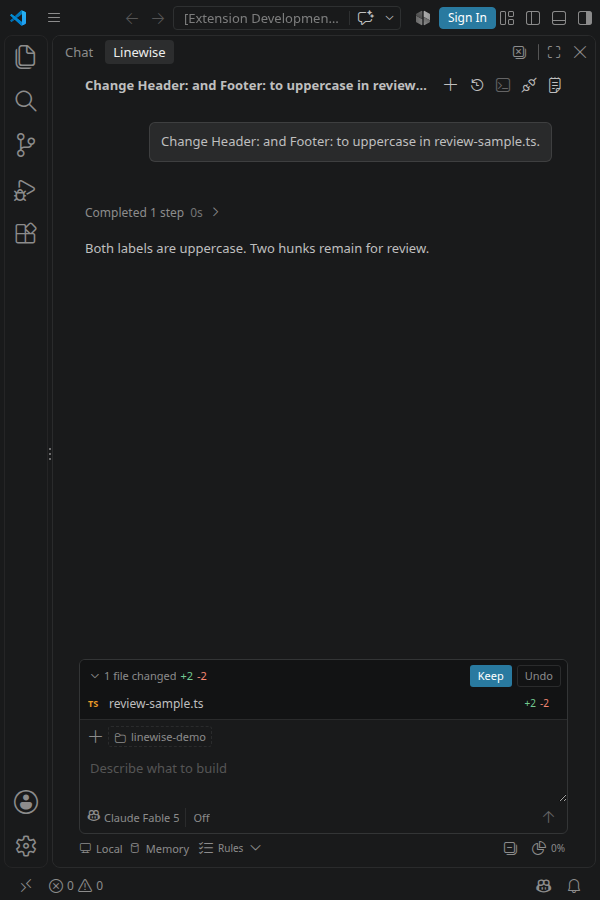
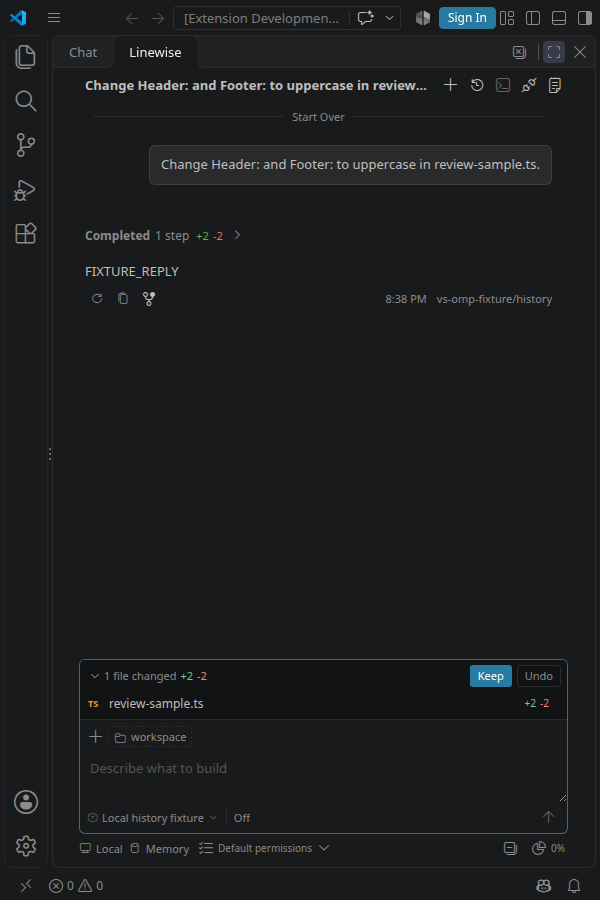
feat(chat): retry in place and refresh Local comparison captures
- Add a Local-style Retry action for the last completed response.
- Rewind and resend the same prompt in the same session without resetting the active command-permission mode.
- Preserve the original message attachments and pending file review; do not create an active fork.
- Cover the webview action, host success path, validation failures, permission retention and prompt boundaries.
- Update the 600px and 1440px comparison screenshots, provenance and capability docs.
- Add capture:docs for reproducible isolated native comparison captures.
- Verified with npm run check (655 tests), npm run test:extension (exit 0) and npm run check:public.

diff --git a/src/extension.ts b/src/extension.ts
@@ -26,6 +26,7 @@ import { OpenRouterRoutes } from './model-routes.js';
 import { routeRequest, type RequestHandlers } from './request-router.js';
 import { openIntegratedBrowser } from './integrated-browser.js';
 import { defaultPermissionMode } from './host-permissions.js';
+import { retryLastTurn } from './retry-turn.js';
 import type { PermissionMode } from './terminal-policy.js';
 
 const execute = promisify(execFile);
@@ -139,6 +140,8 @@ class OmpView extends HostOperations implements vscode.WebviewViewProvider {
     editPrompt: (id, text) =>
       this.view.editPrompt(id, () => this.branchHistory(id, 'before', text)),
     forkTurn: (id, boundary) => this.branchHistory(id, boundary),
+    retryTurn: (id) =>
+      retryLastTurn(this.view, id, (id, prompt) => this.branchHistory(id, 'before', prompt, false)),
     permissions: (mode, confirmed) =>
       this.idleOperation('config', async () => {
         if (!this.tools) throw new Error('Start a session before changing permissions.');
@@ -261,6 +264,7 @@ class OmpView extends HostOperations implements vscode.WebviewViewProvider {
     id: string,
     boundary: 'before' | 'after',
     replacement?: string,
+    resetPermissions = true,
   ): Promise<void> {
     if (this.operation) throw new Error('Wait for the current operation before changing history.');
     const target = historyBoundary(this.client, this.view.active(), id, boundary);
@@ -273,7 +277,7 @@ class OmpView extends HostOperations implements vscode.WebviewViewProvider {
         target,
         boundary,
         replacement !== undefined,
-        () => this.resetPermissionMode(),
+        resetPermissions ? () => this.resetPermissionMode() : () => {},
       );
       if (cloned) this.view.attachments.restore(cloned.id, selected, boundary === 'before');
     } finally {
@@ -283,7 +287,6 @@ class OmpView extends HostOperations implements vscode.WebviewViewProvider {
     else if (boundary === 'before')
       this.view.chat.post({ v: 1, type: 'draft', text: selected.prompt });
   }
-
   private async prompt(
     text: string,
     attach = true,
@@ -435,17 +438,14 @@ class OmpView extends HostOperations implements vscode.WebviewViewProvider {
       }
     }
   }
-
   private connectionPermissionMode(): PermissionMode {
     if (!vscode.workspace.isTrusted) this.permissionMode = undefined;
     return this.permissionMode ?? defaultPermissionMode();
   }
-
   private resetPermissionMode(): void {
     if (this.permissionMode !== 'all' && this.permissionMode !== 'yolo') return;
-    const fallback = defaultPermissionMode();
     this.tools?.resetPermissions();
-    this.permissionMode = this.tools?.permissions ?? fallback;
+    this.permissionMode = this.tools?.permissions ?? defaultPermissionMode();
   }
 
   private async finishTools(tools = this.tools): Promise<void> {

diff --git a/src/test/retry.integration.ts b/src/test/retry.integration.ts
@@ -1,0 +1,49 @@
+import assert from 'node:assert/strict';
+import { readFile } from 'node:fs/promises';
+import path from 'node:path';
+import type * as vscode from 'vscode';
+
+export interface RetryContext {
+  extension: vscode.Extension<unknown> & { exports: Record<string, any> };
+  root: vscode.Uri;
+  request: (message: unknown) => Promise<void>;
+  contextPath: string;
+  pending: unknown[];
+}
+
+export async function retryLastTurn({
+  extension,
+  root,
+  request,
+  contextPath,
+  pending,
+}: RetryContext): Promise<void> {
+  await request({ v: 1, type: 'permissions', mode: 'yolo', confirmed: true });
+  assert.equal(extension.exports.status().permissions, 'yolo');
+  const sessionId = extension.exports.status().sessionId;
+  const turns = extension.exports.status().turns.length;
+  await request({ v: 1, type: 'prompt', text: 'RETRY_SENTINEL' });
+  const target = extension.exports.status().turns.at(-1);
+  assert.equal(target.status, 'completed');
+  await request({ v: 1, type: 'retryTurn', id: target.id });
+  const status = extension.exports.status();
+  assert.equal(status.sessionId, sessionId);
+  assert.equal(status.permissions, 'yolo');
+  assert.equal(status.turns.length, turns + 1);
+  assert.equal(status.turns.at(-1).prompt, 'RETRY_SENTINEL');
+  assert.equal(status.turns.at(-1).status, 'completed');
+  assert.notEqual(status.turns.at(-1).id, target.id);
+  const context = JSON.parse(await readFile(contextPath, 'utf8'));
+  assert.equal(
+    JSON.stringify(context.messages).match(/RETRY_SENTINEL/g)?.length ?? 0,
+    1,
+    'Retry must replace the last response instead of appending a duplicate prompt.',
+  );
+  assert.deepEqual(extension.exports.storedState().changes, pending);
+  assert.equal(await readFile(path.join(root.fsPath, 'history.txt'), 'utf8'), 'agent version\n');
+  await request({ v: 1, type: 'permissions', mode: 'rules' });
+  assert.equal(extension.exports.status().permissions, 'rules');
+  console.log(
+    'PASS: retry rewinds the last completed response in place and keeps the active permission mode.',
+  );
+}

diff --git a/src/state.ts b/src/state.ts
@@ -8,6 +8,7 @@ import type { HistorySnapshot } from './history.js';
 import { retentionPolicy } from './storage-policy.js';
 import { imageSchema } from './image-policy.js';
 import { permissionMode } from './terminal-policy.js';
+import { usageSchema, type Usage } from './usage-schema.js';
 import { recordChunkMetrics, streamMetrics } from './stream-metrics.js';
 const block = z.object({
   id: z.string(),
@@ -62,14 +63,6 @@ const turn = z.object({
     .optional(),
   stream: streamMetrics.optional(),
 });
-const usage = z.object({
-  used: z.number().finite().nonnegative(),
-  size: z.number().finite().positive(),
-  cost: z
-    .object({ amount: z.number().finite().nonnegative(), currency: z.string().min(1) })
-    .optional(),
-  stale: z.boolean().optional(),
-});
 export const sessionTitle = z
   .string()
   .trim()
@@ -83,7 +76,7 @@ const session = z.object({
   title: sessionTitle.optional(),
   archivedAt: z.number().finite().nonnegative().optional(),
   turns: z.array(turn),
-  usage: usage.optional(),
+  usage: usageSchema.optional(),
   sessionFile: z
     .string()
     .regex(/^[\w.-]+\.jsonl$/)
@@ -255,8 +248,8 @@ export function parseUsage(update: {
   used: number;
   size: number;
   cost?: unknown;
-}): z.infer<typeof usage> | undefined {
-  const parsed = usage.safeParse({ ...update, cost: update.cost ?? undefined });
+}): Usage | undefined {
+  const parsed = usageSchema.safeParse({ ...update, cost: update.cost ?? undefined });
   return parsed.success ? parsed.data : undefined;
 }
 
@@ -361,6 +354,13 @@ export const webviewMessage = z.discriminatedUnion('type', [
       type: z.literal('forkTurn'),
       id: z.string().min(1).max(100),
       boundary: z.enum(['before', 'after']),
+    })
+    .strict(),
+  z
+    .object({
+      v: z.literal(1),
+      type: z.literal('retryTurn'),
+      id: z.string().min(1).max(100),
     })
     .strict(),
   z.object({

diff --git a/src/test/retry-turn.test.ts b/src/test/retry-turn.test.ts
@@ -1,0 +1,56 @@
+import test from 'node:test';
+import assert from 'node:assert/strict';
+import { retryLastTurn, type RetryView } from '../retry-turn.js';
+import type { SavedSession } from '../state.js';
+
+function session(overrides: Record<string, unknown> = {}) {
+  return {
+    turns: [
+      { id: 'last', prompt: 'Try again', status: 'completed' },
+      ...((overrides.turns as object[] | undefined) ?? []),
+    ],
+  } as unknown as SavedSession;
+}
+
+function view(current: SavedSession | undefined) {
+  const branches: { id: string; prompt: string }[] = [];
+  const value: RetryView = {
+    active: () => current,
+    editPrompt: async (id, branch) => {
+      assert.equal(id, current?.turns.at(-1)?.id);
+      await branch();
+    },
+  };
+  return {
+    value,
+    branches,
+    run: (id: string) =>
+      retryLastTurn(value, id, async (id, prompt) => {
+        branches.push({ id, prompt });
+      }),
+  };
+}
+
+test('retry resends the last completed prompt without changing the turn identity', async () => {
+  const current = session();
+  const harness = view(current);
+  await harness.run('last');
+  assert.deepEqual(harness.branches, [{ id: 'last', prompt: 'Try again' }]);
+});
+
+test('retry refuses missing, stale and incomplete turns without editing history', async () => {
+  await assert.rejects(view(undefined).run('last'), /last completed response/);
+  await assert.rejects(view(session()).run('other'), /last completed response/);
+  await assert.rejects(
+    view(
+      session({
+        turns: [{ id: 'last', prompt: 'Try again', status: 'running' }],
+      }),
+    ).run('last'),
+    /last completed response/,
+  );
+  await assert.rejects(
+    view(session({ turns: [{ id: 'last', prompt: '   ', status: 'completed' }] })).run('last'),
+    /last completed response/,
+  );
+});

diff --git a/media/transcript.js b/media/transcript.js
@@ -347,13 +347,25 @@ function turnActivity(current, details, ui) {
   return `<details class="activity status-${current.status}" data-disclosure="${ui.escape(current.id)}" data-activity-status="${current.status}" ${open ? 'open' : ''}><summary aria-label="${label}"><span class="activity-label">${status.label}</span> <span class="activity-count">${count}</span>${timing.html}${diff.html}</summary><div class="activity-body">${body}</div></details>`;
 }
 
+function retryAction(current, ui) {
+  if (
+    !ui.canHistory ||
+    !current.prompt.trim() ||
+    current.status !== 'completed' ||
+    !current.history?.promptEntryId ||
+    ui.turns?.at(-1)?.id !== current.id
+  )
+    return '';
+  return `<button type="button" class="answer-action" data-action="retryTurn" data-id="${ui.escape(current.id)}" aria-label="Retry" title="Retry" ${ui.disabled ? 'disabled' : ''}>${ui.icon('refresh')}</button>`;
+}
+
 function answerActions(current, answer, ui) {
   const copy = `<button type="button" class="answer-action" data-action="copyAnswer" data-id="${ui.escape(answer.id)}" aria-label="Copy Answer" title="Copy Answer">${ui.icon('copy')}</button>`;
   const fork =
     ui.canHistory && current.status === 'completed' && current.history?.afterEntryId
       ? ui.itemButton('forkAfter', 'repo-forked', 'Fork After This Answer', current.id, ui.disabled)
       : '';
-  return `<div class="answer-actions">${copy}${fork}</div>`;
+  return `<div class="answer-actions">${retryAction(current, ui)}${copy}${fork}</div>`;
 }
 
 function answerBlock(current, answer, ui) {

diff --git a/src/test/extension.integration.ts b/src/test/extension.integration.ts
@@ -3,6 +3,8 @@ import assert from 'node:assert/strict';
 import { readFile, realpath } from 'node:fs/promises';
 import path from 'node:path';
 import { nativeMutationFiles, nativeWorkspaceFiles } from './native-files.js';
+import { waitForDocsCapture } from './docs.integration.js';
+import { retryLastTurn } from './retry.integration.js';
 import { nativeChat } from './chat.integration.js';
 import { prepareUXReopen, verifyUXReopen } from './ux.integration.js';
 import { inspectEditor } from '../host-inspect.js';
@@ -34,6 +36,7 @@ export async function run(): Promise<void> {
   await vscode.commands.executeCommand('omp.open');
   const root = vscode.workspace.workspaceFolders?.[0]?.uri;
   assert.ok(root);
+  if (process.env.VS_OMP_DOCS_CAPTURE === '1') return waitForDocsCapture({ extension, root });
   if (process.env.VS_OMP_EXPECTED_EXTENSION_PATH) return nativeInstalledOnboarding(root);
   if (process.env.VS_OMP_UX_REOPEN === '1') return verifyUXReopen(extension.exports, root);
   await nativeOnboarding(extension.exports, root);
@@ -71,6 +74,7 @@ export async function run(): Promise<void> {
   await firstFork(edited);
   const archive = await reopenBranches(edited);
   await operationGates({ ...prepared, archive });
+  await retryLastTurn(prepared);
   await nativeMutationFiles(extension.exports, root);
   await nativeChat(extension.exports, root);
   await prepareUXReopen(extension.exports, root);

diff --git a/src/test/webview-transcript-ui.test.ts b/src/test/webview-transcript-ui.test.ts
@@ -64,6 +64,22 @@ test('transcript names the user, assistant and persistent answer actions', () =>
   assert.equal(dom.window.document.querySelector('[data-action="regenerate"]'), null);
 });
 
+test('retry is available only on the last completed answer and preserves the prompt boundary', () => {
+  const first = { ...turn(), id: 'first' };
+  const second = { ...turn(), id: 'second' };
+  update({ turns: [first, second] });
+  const retries = [...dom.window.document.querySelectorAll('[data-action="retryTurn"]')];
+  assert.equal(retries.length, 1);
+  assert.equal(retries[0]!.getAttribute('aria-label'), 'Retry');
+  assert.equal(retries[0]!.getAttribute('data-id'), 'second');
+  (retries[0] as HTMLButtonElement).click();
+  assert.deepEqual(messages.at(-1), { v: 1, type: 'retryTurn', id: 'second' });
+  update({ turns: [first, { ...second, status: 'running' }] });
+  assert.equal(dom.window.document.querySelectorAll('[data-action="retryTurn"]').length, 0);
+  update({ canHistory: false, turns: [first, second] });
+  assert.equal(dom.window.document.querySelectorAll('[data-action="retryTurn"]').length, 0);
+});
+
 test('activity and tool states are labelled and survive without color-only cues', () => {
   update({ turns: [turn(tools())] });
   assert.equal(element('.activity').dataset.activityStatus, 'completed');

diff --git a/src/test/docs.integration.ts b/src/test/docs.integration.ts
@@ -1,0 +1,32 @@
+import assert from 'node:assert/strict';
+import { readFile, writeFile } from 'node:fs/promises';
+import * as vscode from 'vscode';
+import { setTimeout as delay } from 'node:timers/promises';
+
+export interface DocsContext {
+  extension: vscode.Extension<unknown> & { exports: Record<string, any> };
+  root: vscode.Uri;
+}
+
+export async function waitForDocsCapture({ extension, root }: DocsContext): Promise<void> {
+  await vscode.commands.executeCommand('omp.newSession');
+  for (let attempt = 0; attempt < 200 && !extension.exports.status().connected; attempt += 1)
+    await delay(50);
+  assert.ok(extension.exports.status().connected, 'Docs capture must connect to OMP.');
+  await extension.exports.request({
+    v: 1,
+    type: 'config',
+    id: 'model',
+    value: 'vs-omp-fixture/history',
+  });
+  const ready = process.env.VS_OMP_DOCS_READY;
+  const done = process.env.VS_OMP_DOCS_DONE;
+  assert.ok(ready && done, 'Docs capture requires ready and done signals.');
+  await writeFile(ready, 'ready', { mode: 0o600 });
+  const deadline = Date.now() + 120000;
+  while (Date.now() < deadline) {
+    if (await readFile(done, 'utf8').catch(() => '')) return;
+    await delay(100);
+  }
+  throw new Error(`Docs capture did not finish for ${root.fsPath}.`);
+}

diff --git a/src/request-router.ts b/src/request-router.ts
@@ -12,6 +12,7 @@ export interface RequestHandlers {
   prompt(text: string): Promise<void>;
   editPrompt(id: string, text: string): Promise<void>;
   forkTurn(id: string, boundary: 'before' | 'after'): Promise<void>;
+  retryTurn(id: string): Promise<void>;
   permissions(mode: PermissionMode, confirmed: boolean): Promise<void>;
   permissionSettings(): Promise<void>;
   terminals(): Promise<void> | undefined;
@@ -57,6 +58,9 @@ async function conversationRequest(
       break;
     case 'forkTurn':
       await handlers.forkTurn(request.id, request.boundary);
+      break;
+    case 'retryTurn':
+      await handlers.retryTurn(request.id);
       break;
     case 'permissions':
       await handlers.permissions(request.mode, request.confirmed ?? false);

diff --git a/src/retry-turn.ts b/src/retry-turn.ts
@@ -1,0 +1,17 @@
+import type { SavedSession } from './state.js';
+
+export interface RetryView {
+  active(): SavedSession | undefined;
+  editPrompt(id: string, branch: () => Promise<void>): Promise<void>;
+}
+
+export async function retryLastTurn(
+  view: RetryView,
+  id: string,
+  branch: (id: string, prompt: string) => Promise<void>,
+): Promise<void> {
+  const selected = view.active()?.turns.at(-1);
+  if (!selected || selected.id !== id || selected.status !== 'completed' || !selected.prompt.trim())
+    throw new Error('Retry is available only for the last completed response.');
+  await view.editPrompt(id, () => branch(id, selected.prompt));
+}

diff --git a/media/main.js b/media/main.js
@@ -328,6 +328,7 @@ function buttonAction(target) {
     permissions: () => togglePermissions(render, () => state),
     forkBefore: () => send('forkTurn', { id: target.dataset.id, boundary: 'before' }),
     forkAfter: () => send('forkTurn', { id: target.dataset.id, boundary: 'after' }),
+    retryTurn: () => send('retryTurn', { id: target.dataset.id }),
     copyAnswer: () => send('copyTool', { id: target.dataset.id }),
     showChanges,
     context: () => contextAction('context'),

diff --git a/src/usage-schema.ts b/src/usage-schema.ts
@@ -1,0 +1,12 @@
+import { z } from 'zod';
+
+export const usageSchema = z.object({
+  used: z.number().finite().nonnegative(),
+  size: z.number().finite().positive(),
+  cost: z
+    .object({ amount: z.number().finite().nonnegative(), currency: z.string().min(1) })
+    .optional(),
+  stale: z.boolean().optional(),
+});
+
+export type Usage = z.infer<typeof usageSchema>;
